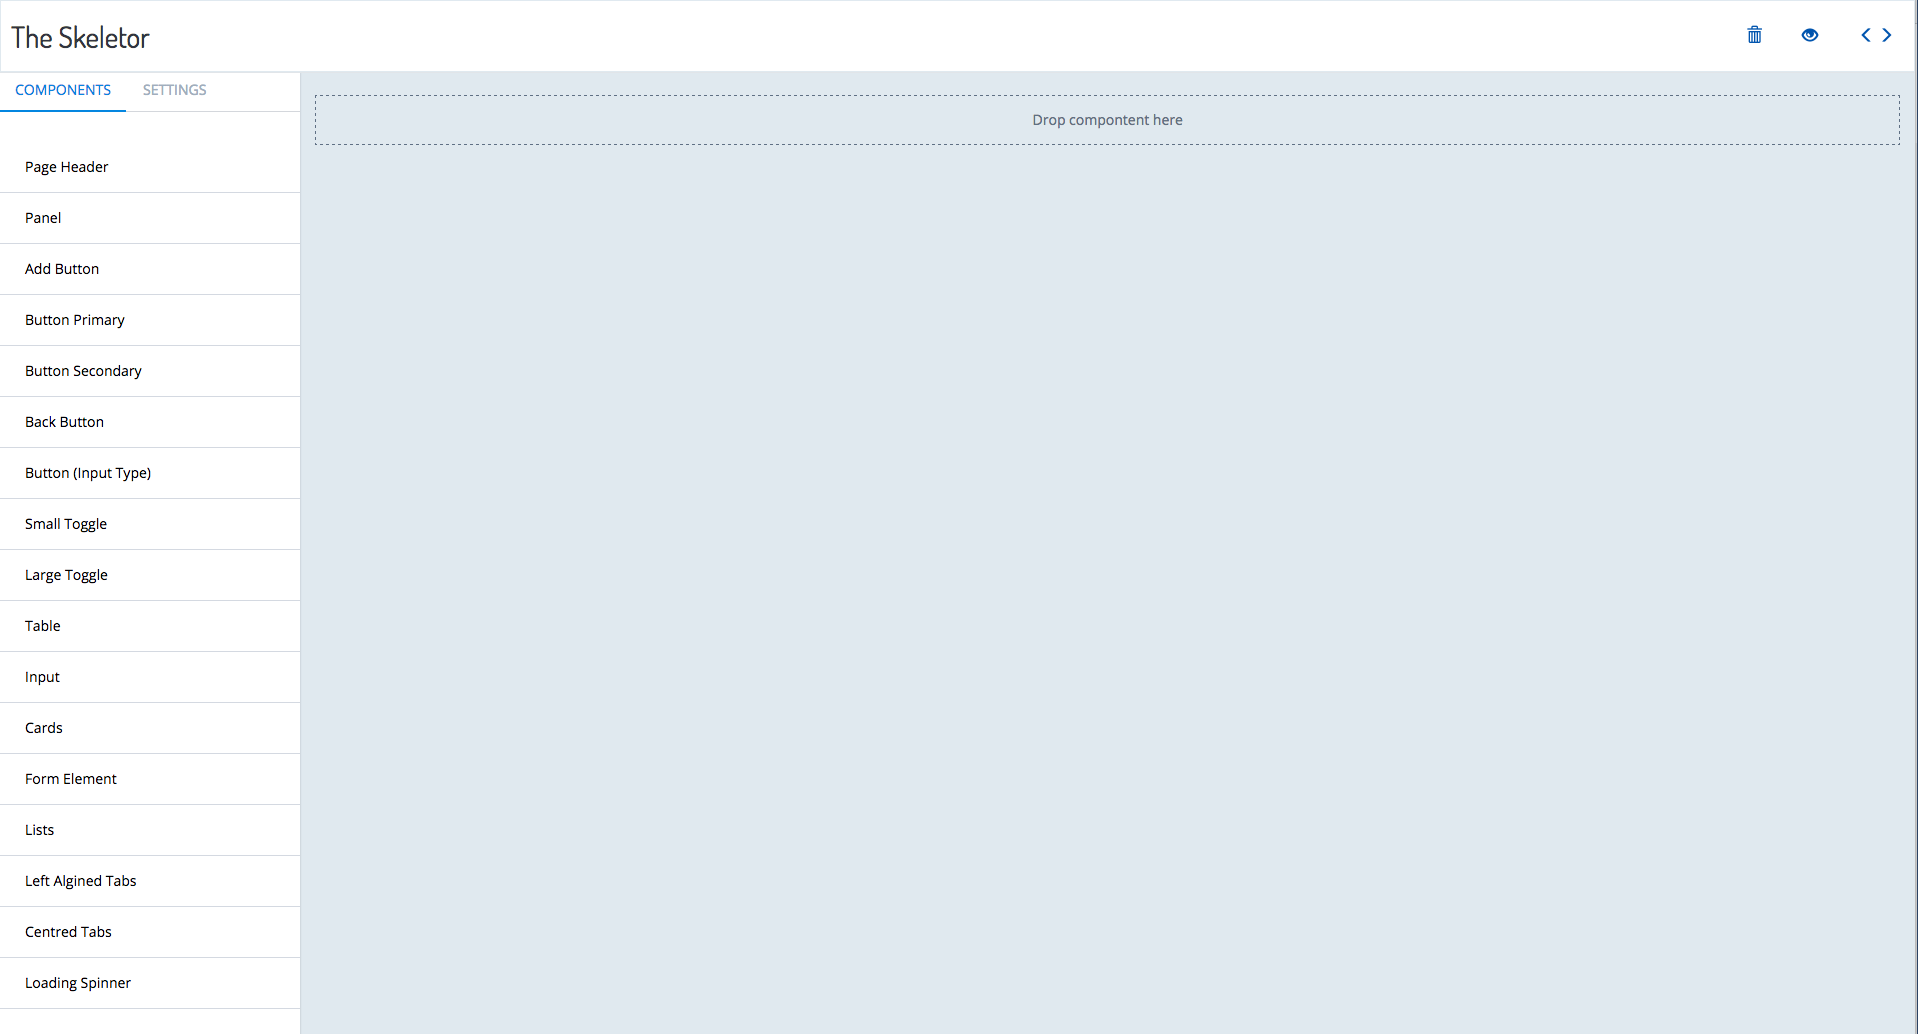
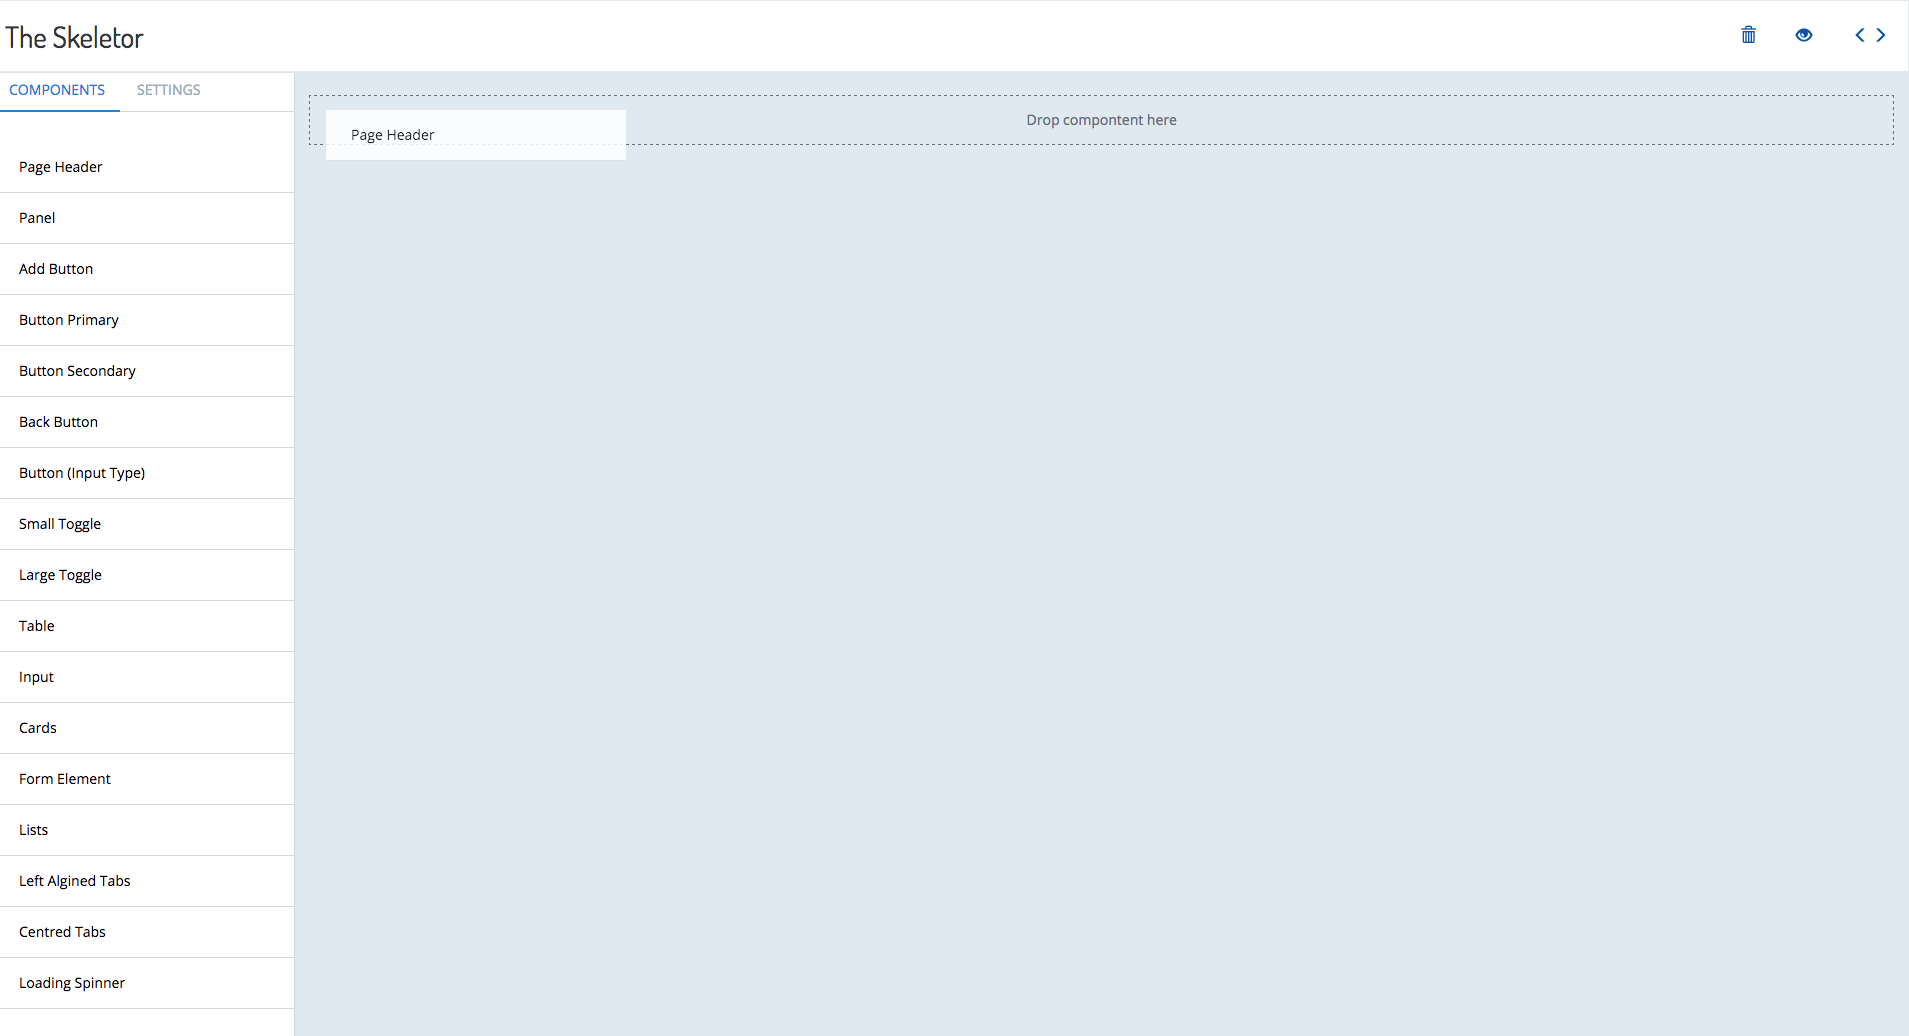
TSK-4489

diff --git a/docu/files/SkeletorInBuilderCLI.md b/docu/files/SkeletorInBuilderCLI.md
@@ -20,7 +20,7 @@ To run and use Skeletor:
 4. Enter the URL http://localhost:8082 in a browser.  The Skeletor design interface will appear. 
 5. To design a UI, drag and drop the components from the left of the screen onto the main screen. Organize the components as they should appear in the Builder UI. 
 
-  <img src="img/skeletor_ui.png" style="width:600px" class="img-click-modal" alt="The Skeletor UI"/><br><br>
+  <img src="img/skeletor_ui_drag.png" style="width:600px" class="img-click-modal" alt="The Skeletor UI"/><br><br>
 6. After you have created the UI, export the code that Skeletor generates. To do this click on the brackets icon in the top right corner of the screen.
 
   <img src="img/skeletor_ui_menu.png" class="img-click-modal" alt="The Skeletor UI"/><br><br>
